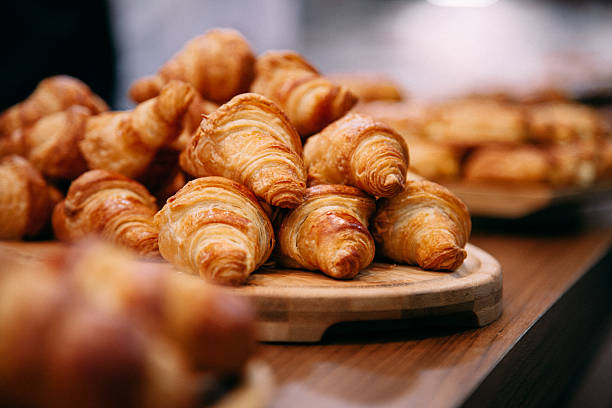
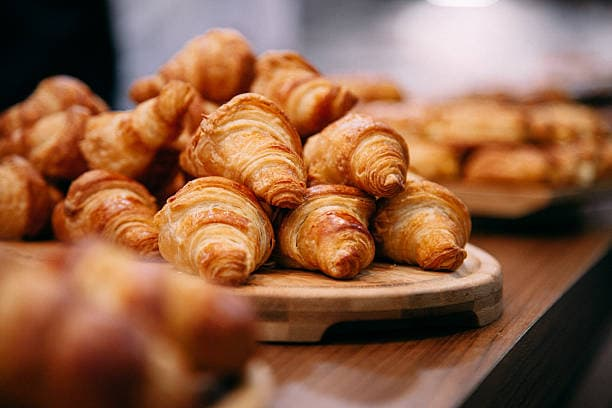
gallery images compressed

diff --git a/gallery.html b/gallery.html
@@ -27,7 +27,7 @@
         <p>Welcome to our gallery! Here you can view our latest projects and creations.</p>
         <img src="images/Cake.jpg" alt="Cake">
         <br>
-        <img src="images/Cookie.webp" alt="Cookies">
+        <img src="images/Cookie.jpg" alt="Cookies">
         <br>
         <img src="images/Croissant.jpg" alt="Croissant">
     </main>
